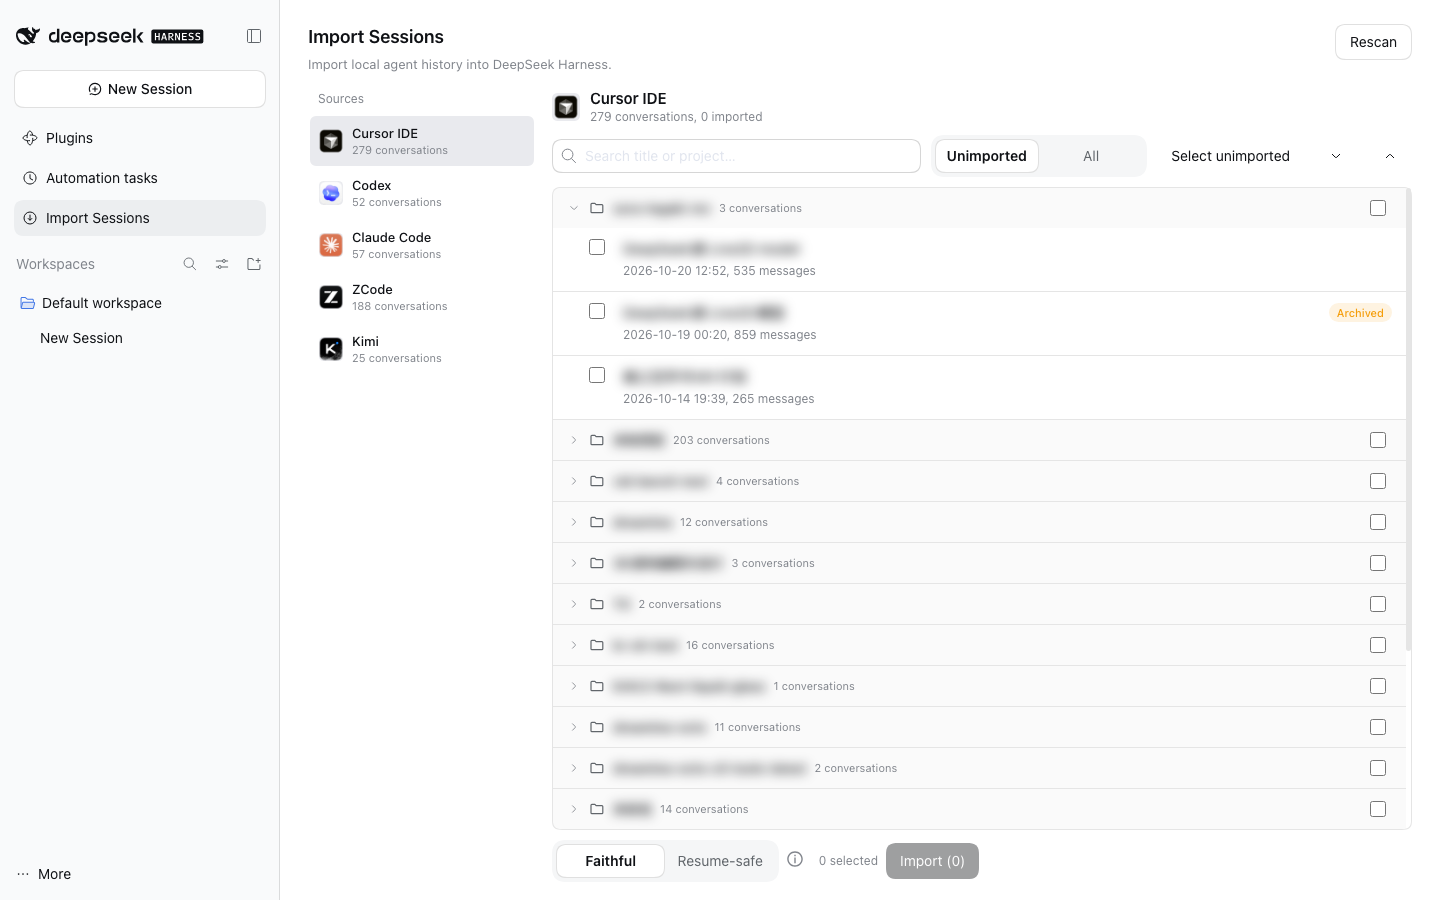
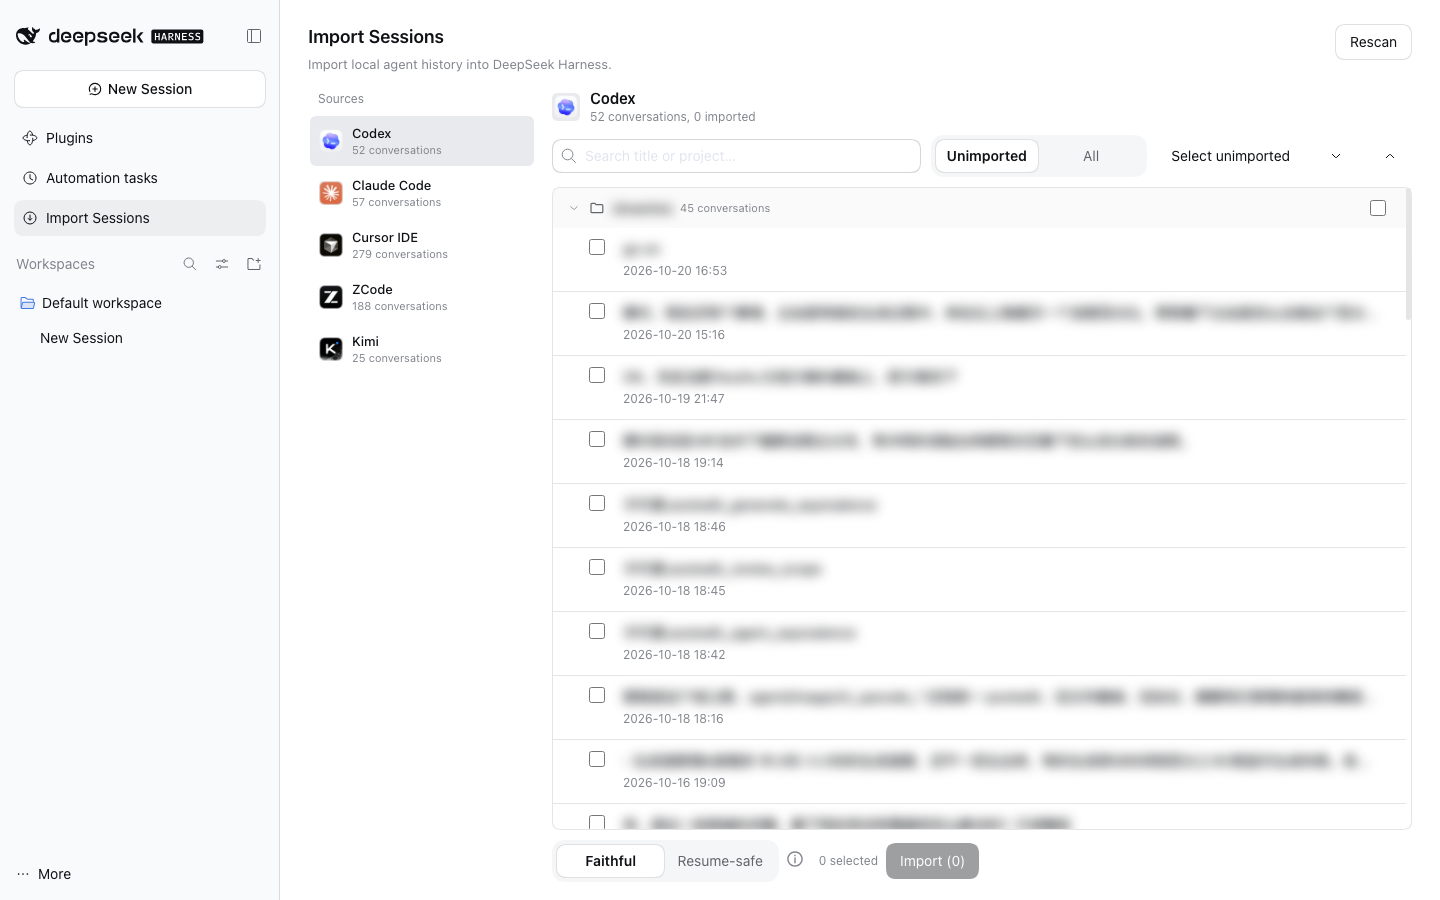
chore: 发布 0.2.1

diff --git a/lib/host/providers/registry.js b/lib/host/providers/registry.js
@@ -3,23 +3,22 @@
  *
  * Adding a new third-party agent source means dropping one module next to this
  * file that exports `{ id, label, description, status(), list(), load(id) }`
- * and appending its module path to `OPTIONAL_PROVIDERS`. The sidebar panel then
+ * and appending its entry to `PROVIDER_ORDER` below. The sidebar panel then
  * lists it automatically — the rest of the import pipeline is source-agnostic.
  */
 import * as cursor from './cursor.js';
 
-/** Providers that are always part of this build. */
-const BUILTIN_PROVIDERS = [cursor];
-
 /**
- * Provider modules that may be absent in a trimmed checkout (they are imported
- * lazily so a missing file only removes that source, never breaks the plugin).
+ * Display order of the sources. `cursor` ships with the package; every other
+ * entry is imported lazily, so a missing module only removes that source and
+ * never breaks the plugin.
  */
-const OPTIONAL_PROVIDERS = [
-  { name: 'codex', module: './codex.js' },
-  { name: 'claude-code', module: './claude-code.js' },
-  { name: 'zcode', module: './zcode.js' },
-  { name: 'kimi', module: './kimi.js' },
+const PROVIDER_ORDER = [
+  { id: 'codex', module: './codex.js' },
+  { id: 'claude-code', module: './claude-code.js' },
+  { id: 'cursor', module: cursor },
+  { id: 'zcode', module: './zcode.js' },
+  { id: 'kimi', module: './kimi.js' },
 ];
 
 /** Resolved provider list (module load is idempotent). */
@@ -31,10 +30,10 @@ let resolved = null;
  */
 export async function providers() {
   if (resolved !== null) return resolved;
-  const list = [...BUILTIN_PROVIDERS];
-  for (const entry of OPTIONAL_PROVIDERS) {
+  const list = [];
+  for (const entry of PROVIDER_ORDER) {
     try {
-      const module = await import(entry.module);
+      const module = typeof entry.module === 'string' ? await import(entry.module) : entry.module;
       if (typeof module.id === 'string' && typeof module.list === 'function' && typeof module.load === 'function') list.push(module);
     } catch {
       // Optional provider not shipped in this copy.

diff --git a/README.md b/README.md
@@ -7,9 +7,9 @@
 
 | 来源 | 读取的本地数据（只读） |
 | --- | --- |
-| **Cursor IDE**（Agent / Composer） | `~/Library/Application Support/Cursor/User/globalStorage/state.vscdb` |
 | **Codex**（CLI / 桌面版共用同一存储） | `~/.codex/sessions/**.jsonl` + `~/.codex/thread_history_1.sqlite` |
 | **Claude Code** | `~/.claude/projects/**.jsonl` |
+| **Cursor IDE**（Agent / Composer） | `~/Library/Application Support/Cursor/User/globalStorage/state.vscdb` |
 | **ZCode** | `~/.zcode/cli/db/db.sqlite` |
 | **Kimi**（Agent / Kimi Code） | `~/Library/Application Support/kimi-desktop/.../kimi-code/home/sessions` |
 
@@ -41,7 +41,7 @@
 
    ```
    dsh-agent-session-import
-   dsh-agent-session-import@0.2.0
+   dsh-agent-session-import@0.2.1
    ```
 
 3. Install → 完成后点 **Enable now**（或到 Plugins 列表启用）。

diff --git a/CHANGELOG.md b/CHANGELOG.md
@@ -1,12 +1,17 @@
 # Changelog
 
+## 0.2.1 — 2026-10-20
+
+- 精简来源列表，仅保留开源工具的本地历史导入。
+- 首次进入导入面板时显示加载状态（spinner + skeleton 占位），避免空白等待。
+
 ## 0.2.0 — 2026-10-20
 
 First public release.
 
-- Sources: Cursor IDE (Agent/Composer), Codex (CLI and the Codex app bundled in
-  ChatGPT.app share `~/.codex`), Claude Code, ZCode, Kimi (Agent/Kimi Code),
-  and Kimi.
+- Sources: Codex (CLI and the Codex app bundled in ChatGPT.app share
+  `~/.codex`), Claude Code, Cursor IDE (Agent/Composer), ZCode, and Kimi
+  (Agent/Kimi Code).
 - Sidebar panel with a source rail, conversations grouped by project folder,
   search, Unimported/All filter, group-level selection and a progress/results
   dialog with retry for failed imports.

diff --git a/docs/adding-provider.md b/docs/adding-provider.md
@@ -7,14 +7,15 @@
 ## 1. 目录与注册
 
 provider 放在 `lib/host/providers/<id>.js`，然后在 `lib/host/providers/registry.js` 的
-`OPTIONAL_PROVIDERS` 里加一行：
+`PROVIDER_ORDER` 里加一行（数组顺序就是面板里的来源顺序）：
 
 ```js
-const OPTIONAL_PROVIDERS = [
-  { name: 'codex', module: './codex.js' },
-  { name: 'claude-code', module: './claude-code.js' },
-  { name: 'zcode', module: './zcode.js' },
-  { name: 'kimi', module: './kimi.js' },
+const PROVIDER_ORDER = [
+  { id: 'codex', module: './codex.js' },
+  { id: 'claude-code', module: './claude-code.js' },
+  { id: 'cursor', module: cursor },
+  { id: 'zcode', module: './zcode.js' },
+  { id: 'kimi', module: './kimi.js' },
   // ← 新增来源在这里加一行
 ];
 ```
